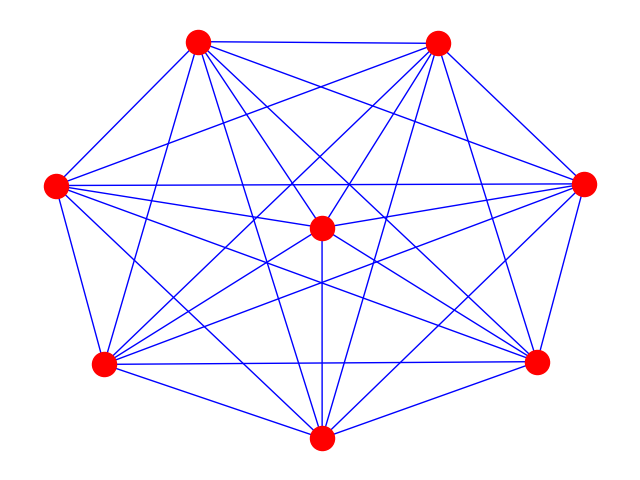
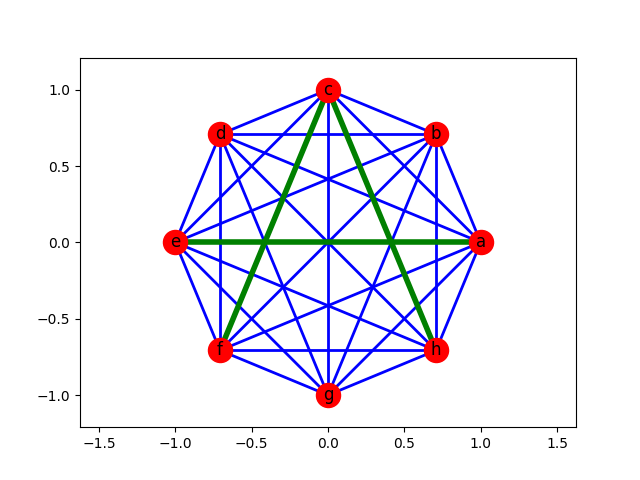
Add files via upload

diff --git a/graph.py b/graph.py
@@ -1,42 +1,51 @@
 try:
 
   import matplotlib.pyplot as plt
-
+	
 except:
 
   raise 
 import networkx as nx
-
+import math
 
 
 
 G=nx.Graph()
+plt.axis('equal');
+
+#G.add_nodes_from(['a','b','c','d','e','f','g','h'])
+nodes = ['a','b','c','d','e','f','g','h']
+angle = 0
+radius = 1
+for n in nodes:
+	G.add_node(n, pos=(math.cos(angle) * radius, math.sin(angle) * radius), name=n)
+	print (math.cos(angle) * radius, math.sin(angle) * radius)
+	angle += (2 * math.pi) / (len(nodes))
 
 
-G.add_nodes_from(["a","b","c","d","e","f","g","h"])
+G.add_edges_from([('a','b'),('a','c'),('a','d'),('a','f'),('a','g'),('a','h')])
 
+G.add_edges_from([('b','c'),('b','d'),('b','e'),('b','f'),('b','g'),('b','h')])
 
-G.add_edges_from([("a","b"),("a","c"),("a","d"),("a","f"),("a","g"),("a","h")],color='b')
+G.add_edges_from([('c','d'),('c','e'),('c','g')])
 
-G.add_edges_from([("b","c"),("b","d"),("b","e"),("b","f"),("b","g"),("b","h")],color='b')
+G.add_edges_from([('d','e'),('d','f'),('d','g'),('d','h')])
 
-G.add_edges_from([("c","d"),("c","e"),("c","g")],color='b')
+G.add_edges_from([('e','f'),('e','g'),('e','h')])
 
-G.add_edges_from([("d","e"),("d","f"),("d","g"),("d","h")],color='b')
+G.add_edges_from([('f','g'),('f','h'),('g','h')])
 
-G.add_edges_from([("e","f"),("e","g"),("e","h")],color='b')
+G.add_edge('a','e')
 
-G.add_edges_from([("f","g"),("f","h"),("g","h")],color='b')
+G.add_edge('c','f')
 
-G.add_edge("a","e",color='g')
+G.add_edge('c','h')
 
-G.add_edge("c","f",color='g')
-
-G.add_edge("c","h",color='g')
-
-nx.draw(G, edge_color='b')
-
-
+nx.draw_networkx_nodes(G, nx.get_node_attributes(G, 'pos'))
+nx.draw_networkx_labels(G, nx.get_node_attributes(G, 'pos'), nx.get_node_attributes(G, 'name'));
+nx.draw_networkx_edges(G,nx.get_node_attributes(G, 'pos'),edgelist=[('a','b'),('a','c'),('a','d'),('a','f'),('a','g'),('a','h'),('b','c'),('b','d'),('b','e'),('b','f'),('b','g'),('b','h'),('c','d'),('c','e'),('c','g'),('d','e'),('d','f'),('d','g'),('d','h'),('e','f'),('e','g'),('e','h'),('f','g'),('f','h'),('g','h')],edge_color='b',width=2)
+nx.draw_networkx_edges(G,nx.get_node_attributes(G, 'pos'),edgelist=[('a','e'),('c','f'),('c','h')],edge_color='g',width=4)
+#nx.draw(G, nx.get_node_attributes(G, 'pos'), with_labels=True, node_size=0)
 plt.savefig("graph.png")
 
 plt.show()
